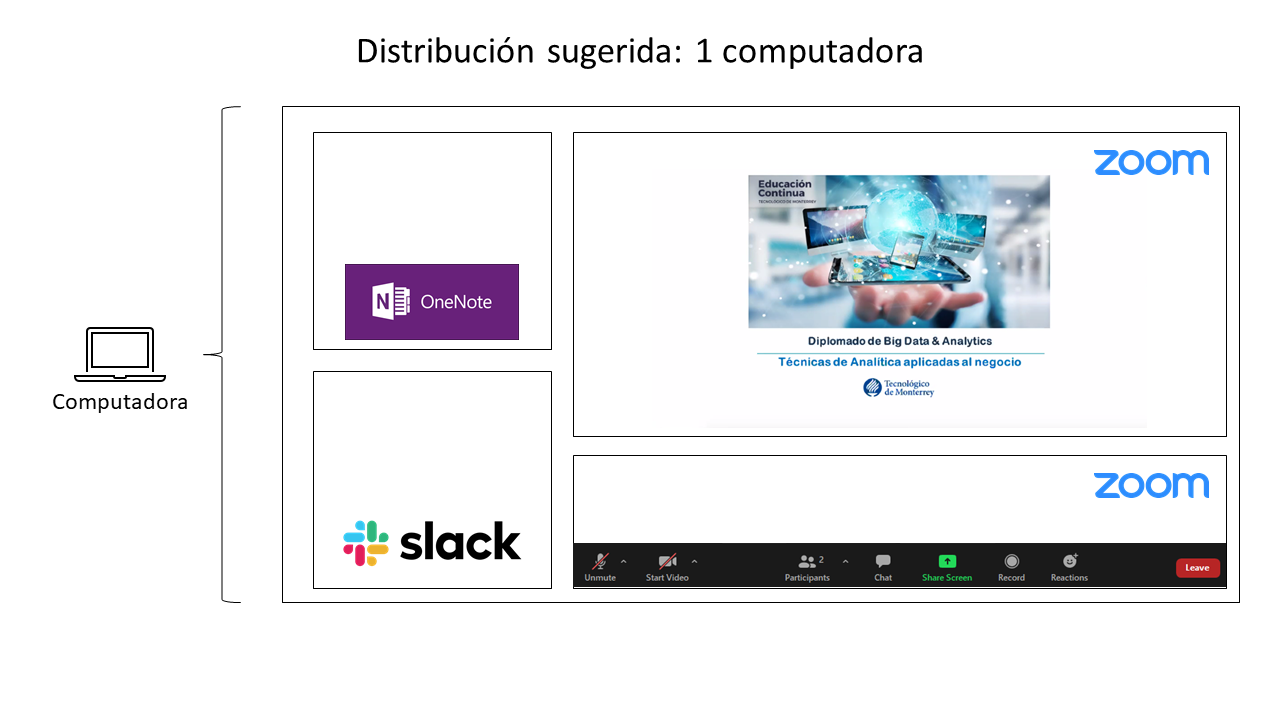
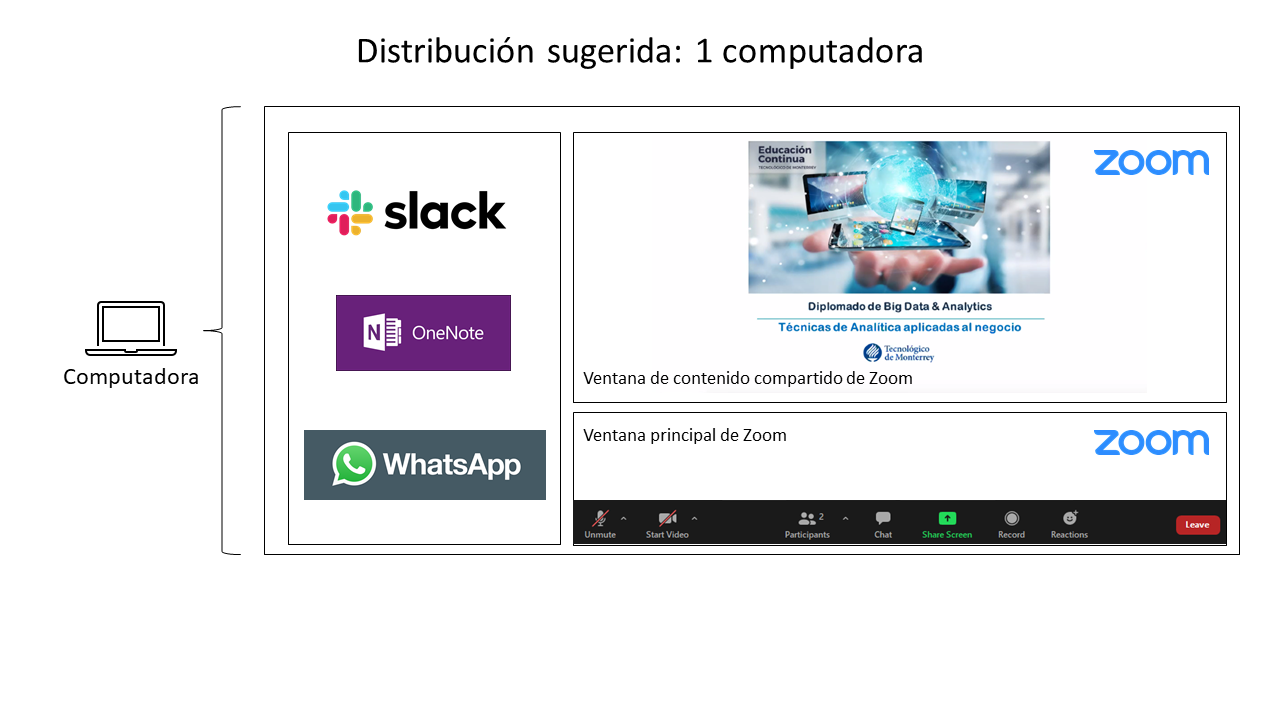
Intro and content push

diff --git a/slides/workshop.css b/slides/workshop.css
@@ -32,12 +32,14 @@ code.remark-code {
 .exercise ul li code.remark-code.hljs.bash {
   padding: 0;
 }
-
-/* Adding support for concepts */
+/* Forcing a change*/
+/* Adding support for concepts and chat */
 .concept ul li code.remark-code.hljs.bash {
   padding: 0;
 }
-
+.messaging ul li code.remark-code.hljs.bash {
+  padding: 0;
+}
 /* For print! Borrowed from https://github.com/gnab/remark/issues/50 */
 @page {
   size: 1210px 681px;
@@ -201,7 +203,7 @@ div img {
   content: "Ejercicio";
   margin-left: 1.8em;
 }
-
+/* Adding support for concept and chat*/
 .concept {
   background-color: #eee;
   background-image: url("images/information.png");
@@ -212,6 +214,18 @@ div img {
 }
 .concept:before {
   content: "Concepto";
+  margin-left: 1.8em;
+}
+.messaging {
+  background-color: #eee;
+  background-image: url("images/chat.svg");
+  background-size: 1.4em;
+  background-repeat: no-repeat;
+  background-position: 0.2em 0.2em;
+  border: 2px dotted black;
+}
+.messaging:before {
+  content: "Actividad en chat";
   margin-left: 1.8em;
 }
 

diff --git a/slides/textanalytics/welcome.md b/slides/textanalytics/welcome.md
@@ -9,16 +9,21 @@ Junto con tu experiencia y el conocimiento de datos  tendrás herramientas para 
 ---
 
 ## Recursos de comunicación
-.warning[Verificaremos que contemos con las herramientas de comunicación y colaboración necesarias para la realización del módulo:
-- Zoom Meetings
-- Slack
-- WhatsApp
+.warning[Antes de iniciar con el desarrollo del módulo verificaremos que cuentes con las herramientas de comunicación y colaboración necesarias para la realización del mismo:
+- Zoom Meetings (visualización de diapositivas y video del facilitador)
+- Slack (chat primario, encuestas)
+- WhatsApp (chat administrativo y secundario)
+- Aplicación para captura de notas del curso (mencionamos OneNote como ejemplo, no es requerido)
 ]
+
+Nota: asegúrate de configurar todas las aplicaciones mencionadas con tu nombre y apellido así como matrícula del Tec entre paréntesis.
+
+P.e. Marciano Moreno (AL438131)
 ---
 ## Recursos de comunicación: Zoom Meetings
 
 .concept[
-    Zoom Meeting: Presentación de diapositivas y exposición de temas. Instalado en compuradora personal conectada a servicio residencial o de negocio de Internet de banda ancha. Recomendamos visualizar la ventana de contenido compartido y la de uso general de forma simultánea.
+    Zoom Meeting: Presentación de diapositivas y video del facilitador y de participantes. Instalado en computadora personal conectada a servicio residencial o de negocio de Internet de banda ancha. Recomendamos visualizar la ventana de contenido compartido y la de uso general de forma simultánea en pantallas independientes.
     ]
 
 .interstitial40[
@@ -29,7 +34,8 @@ Junto con tu experiencia y el conocimiento de datos  tendrás herramientas para 
 ## Recursos de comunicación: Slack
 
 .concept[
-    Slack: Chat interactivo, encuestas, ejemplos de código. Instalado en computadora personal conectada a servicio residencial o de negocio de Internet de banda ancha y en dispositivo móvil con servicio de datos a Internet independiente.
+    Slack: Chat interactivo, mención de personas, emojis 😎, conversaciones anidadas, encuestas, ejemplos de código. Instalado, de ser posible, en dispositivo móvil con servicio de datos a Internet independiente. 
+    Participantes cómodos con "multitasking": Aplicación de escritorio de Slack instalada en computadora personal conectada a servicio residencial o de negocio de Internet de banda ancha.
     ]
 .interstitial40[
 ![Slack logo](images/slack-rgb.png)
@@ -39,7 +45,7 @@ Junto con tu experiencia y el conocimiento de datos  tendrás herramientas para 
 ## Recursos de comunicación: WhatsApp
 
 .concept[
-    WhatsApp: Comunicación administrativa y en caso de pérdida de conexión primaria a Internet. Recomendamos ejecutar la aplicación desde un dispositivo móvil con servicio de datos a Internet independiente.
+    WhatsApp: Comunicación administrativa y alterna en caso de pérdida de conexión primaria a Internet. Instalado, de ser posible, en dispositivo móvil con servicio de datos a Internet independiente.
 ]
 
 .interstitial40[
@@ -52,13 +58,12 @@ class: pic
 
 ---
 class: pic
-    ![Student setup - 1 computer + 1 monitor](images/student-setup-2.png)
+    ![Student setup - 1 computer + 1 mobile](images/student-setup-2.png)
 
 ---
 class: pic
-    ![Student setup - 1 computer + 1 monitor + 1 mobile](images/student-setup-3.png)
+    ![Student setup - 1 computer + 1 mobile + 1 monitor](images/student-setup-3.png)
 
----
 ---
 ## Objetivo primordial del programa
 
@@ -71,7 +76,7 @@ Además lograrás interpretar los resultados generados por los modelos de análi
 ## Objetivo primordial del módulo
 
 .concept[
-    Conocer, aplicar e interpretar los resultados de modelos de análisis de datos no estructurados, aplicados al negocio.
+    Conocer, aplicar e interpretar los resultados de modelos de análisis de datos no estructurados, aplicados al negocio. 🙌
 ]
 
 Objetivos específicos
@@ -96,13 +101,30 @@ Objetivos específicos
 
 ---
 
+## Acerca de ti
+
+- Nos encontramos felices por tu participación en este módulo 😊
+
+- Cuando escuches tu nombre por favor activa tu micrófono y, de ser posible, video y preséntate en 30 segundos con el grupo indicando:
+    - Tu nombre
+
+    - ¿Cómo te encuentras el día de hoy?
+
+    - ¿Qué superpoder te gustaría tener?
+--
+
+¡Muchas gracias por tu participación! Continuamos...
+---
 <!-- TODO: Iniciamos -->
 ## Expectativas
-- Con base en los objetivos y agenda
-
-- ¿Qué expectativas tienes para este módulo?
+.messaging[
+    Responderás a un cuestionario que enviaremos por Slack para conocer tus expectativas respecto a este módulo.
+]
 
 ![Puzzled](https://media.giphy.com/media/l4JA1COQqiZB6/giphy.gif)
+
+
+
 
 <!-- TODO: Panorámica del curso (como gráfico)-->
 

diff --git a/slides/textanalytics/text-analysis-techniques.md b/slides/textanalytics/text-analysis-techniques.md
@@ -1,0 +1,43 @@
+# Técnicas de análisis de texto
+
+.concept[La analítica de texto extrae significado, patrones y estructura a partir de datos de texto no estructurado.
+]
+- Luhn, Hans Peter. "The Automatic Creation of Literature Abstracts"
+- Minería de texto: Enfocado en la aplicación de machine learning y métodos estadísticos en un enfoque de tipo BOW (bag of words).
+
+- Analítica de texto: Evolución más amplia que integra técnicas de minería de datos, machine learning, procesamiento de lenguaje natural, recuperación de información y gestión de conocimiento.
+
+---
+
+## Recuperación de información (IR)
+.concept[
+    Encontrar material (documentos, típicamente) de naturaleza no estructurada (texto, generalmente) que satisfaga una necesidad de información con respecto a colecciones grandes (generalmente almacenadas en documentos).
+]
+
+- Precursores: bibliotecarios, asistentes legales.
+
+- Actualmente: cientos de millones de usuarios cuando realizan búsquedas en motores de búsqueda o en su correo.
+
+- IR también abarca el soporte a usuarios para examinar y filtrar colecciones de documentos o procesar documentos recuperados.
+
+---
+
+## Escala de sistemas de IR
+
+- Web: billones de documentos almacenados en billones de computadoras
+
+- Empresarial: documentos internos de la organización, patentes, artículos de investigación
+
+- Información personal: documentos almacenados en un dispositivo de uso personal (p.e. computadora)
+
+---
+
+## Análisis exploratorio
+
+- Muestreo de datos
+- Limpieza de datos (dividir líneas en enunciados, espacios en blanco, )
+- Generación de modelos ngram (1:3), tokenizer
+- Visualizar los datos, histogramas de tokens
+- Frecuencia relativa de términos, Relative Term Frecuency (RTF) de los tokens
+- Técnicas avanzadas: morfología, lematización, normalization
+

diff --git a/slides/textanalytics/unstructured-data-in-context.md b/slides/textanalytics/unstructured-data-in-context.md
@@ -1,0 +1,31 @@
+# Datos no estructurados en contexto
+- Nuevos actores involucrados en la generación de información
+    - Empleados
+    - Usuarios
+    - Máquinas
+
+- El avance tecnológico ha contribuido al crecimiento y diversidad en la información
+    - Redes sociales
+    - Dispositivos móviles
+    - Máquinas (IoT)
+---
+## La explosión de datos no estructurados
+
+- Crecimiento de 100x cada diez años
+
+## Participación de datos no estructurados
+
+- 85% de los datos existentes son no estructurados
+ 
+---
+## Tecnología para análisis de datos no estructurados
+- El crecimiento desmesurado en información hace impráctico en análisis por medio de personas o grupos de personas.
+
+- A la par, se han desarrollado tecnologías para procesar datos no estructurados de forma eficiente y escalable
+    - NoSQL
+    - Big Data
+
+## Relevancia
+
+- La práctica de Information Retrieval (IR), la recuperación de información, se está volviendo la forma predominante de acceso a la información.
+

diff --git a/slides/textanalytics/use-cases.md b/slides/textanalytics/use-cases.md
@@ -1,0 +1,9 @@
+# Casos de uso de analísis de datos no estructurados
+
+- Identificación de tendencias en documentos
+- Clasificación de documentos
+- Análisis de sentimiento
+- Análisis de asociaciones e identificación de causas raíz
+- Mejora de modelos predictivos con datos de texto
+- Detección de opiniones
+- 
